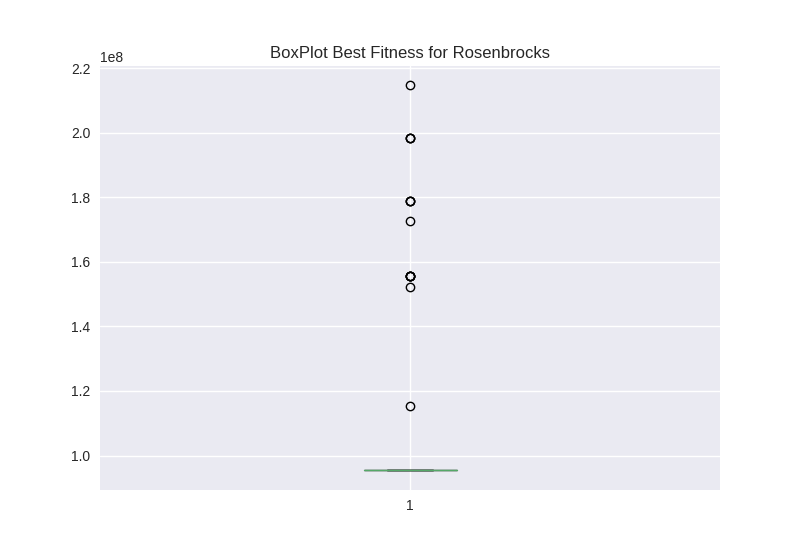
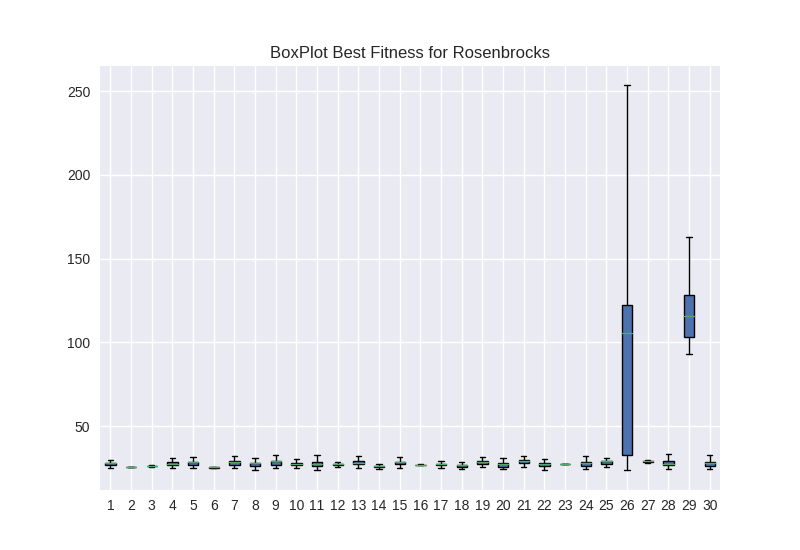
Adds FSS average results

diff --git a/main.py b/main.py
@@ -27,7 +27,7 @@ def rosenbrocks():
 def plot_boxplot(best_fitness, function_name):
 	fig1, ax1 = plt.subplots()
 	ax1.set_title(f'BoxPlot Best Fitness for {function_name}')
-	ax1.boxplot(best_fitness, patch_artist=True)
+	ax1.boxplot(best_fitness, patch_artist=True, showfliers=False)
 	ax1.legend()
 	plt.savefig(f'FSS Boxplot {function_name}.png')
 
